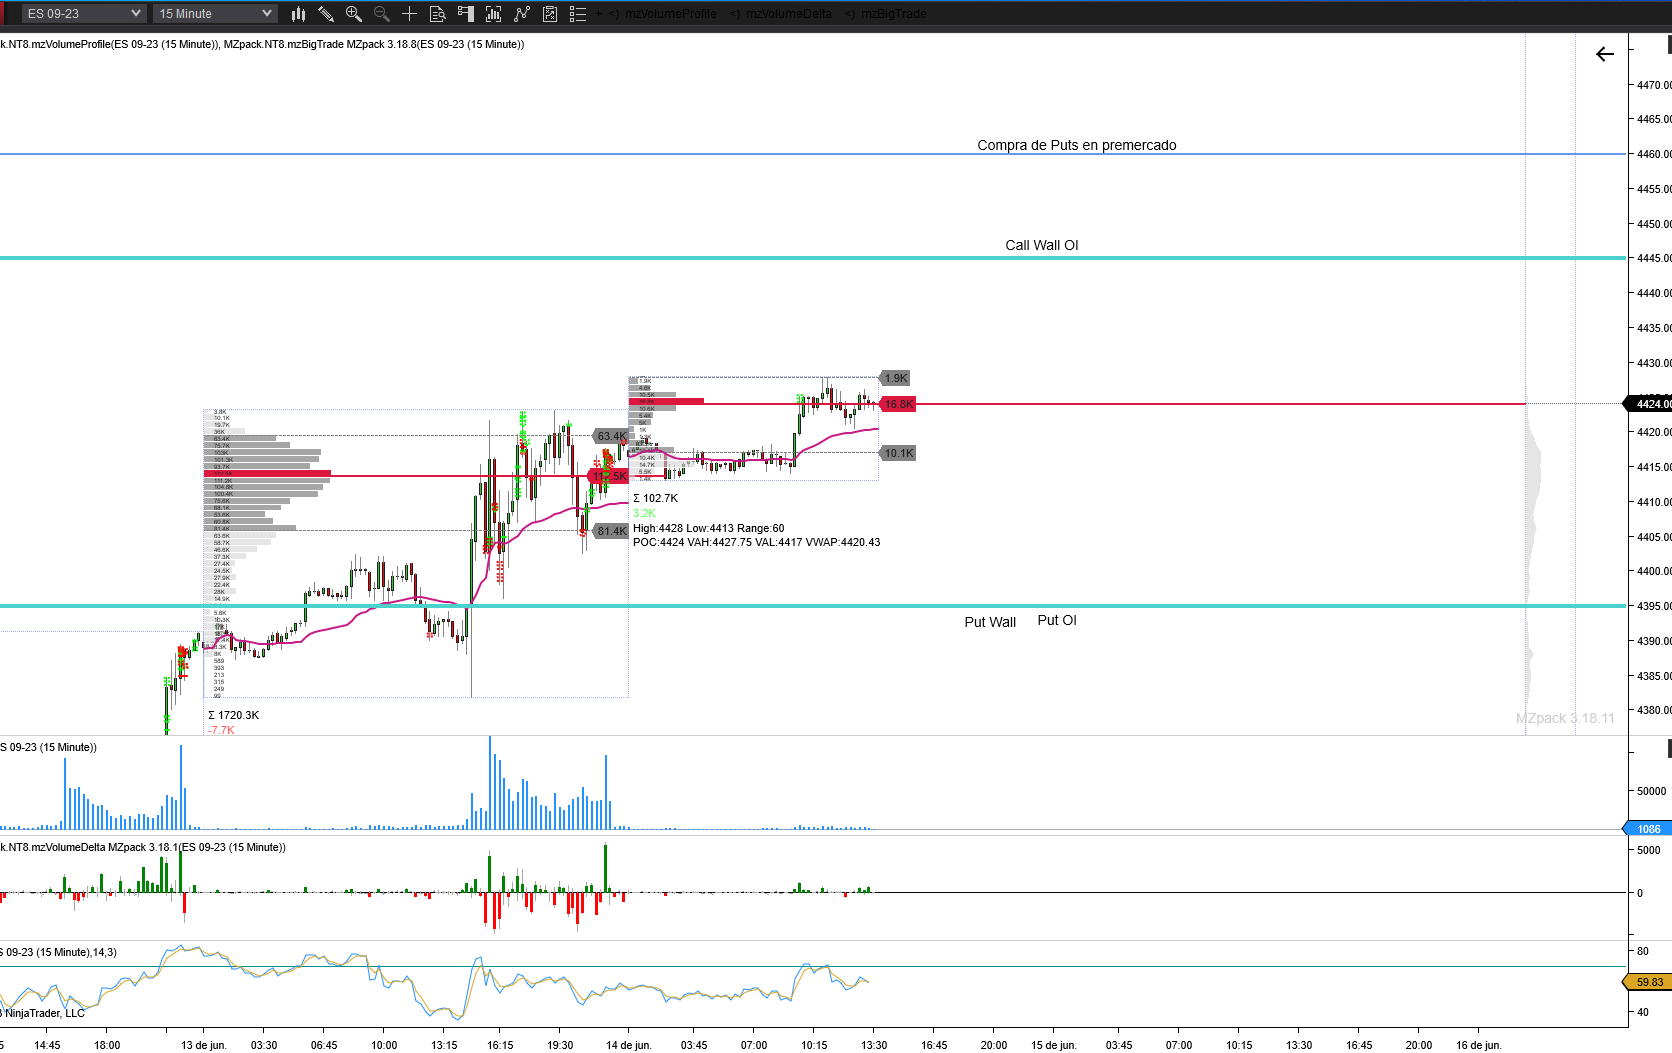
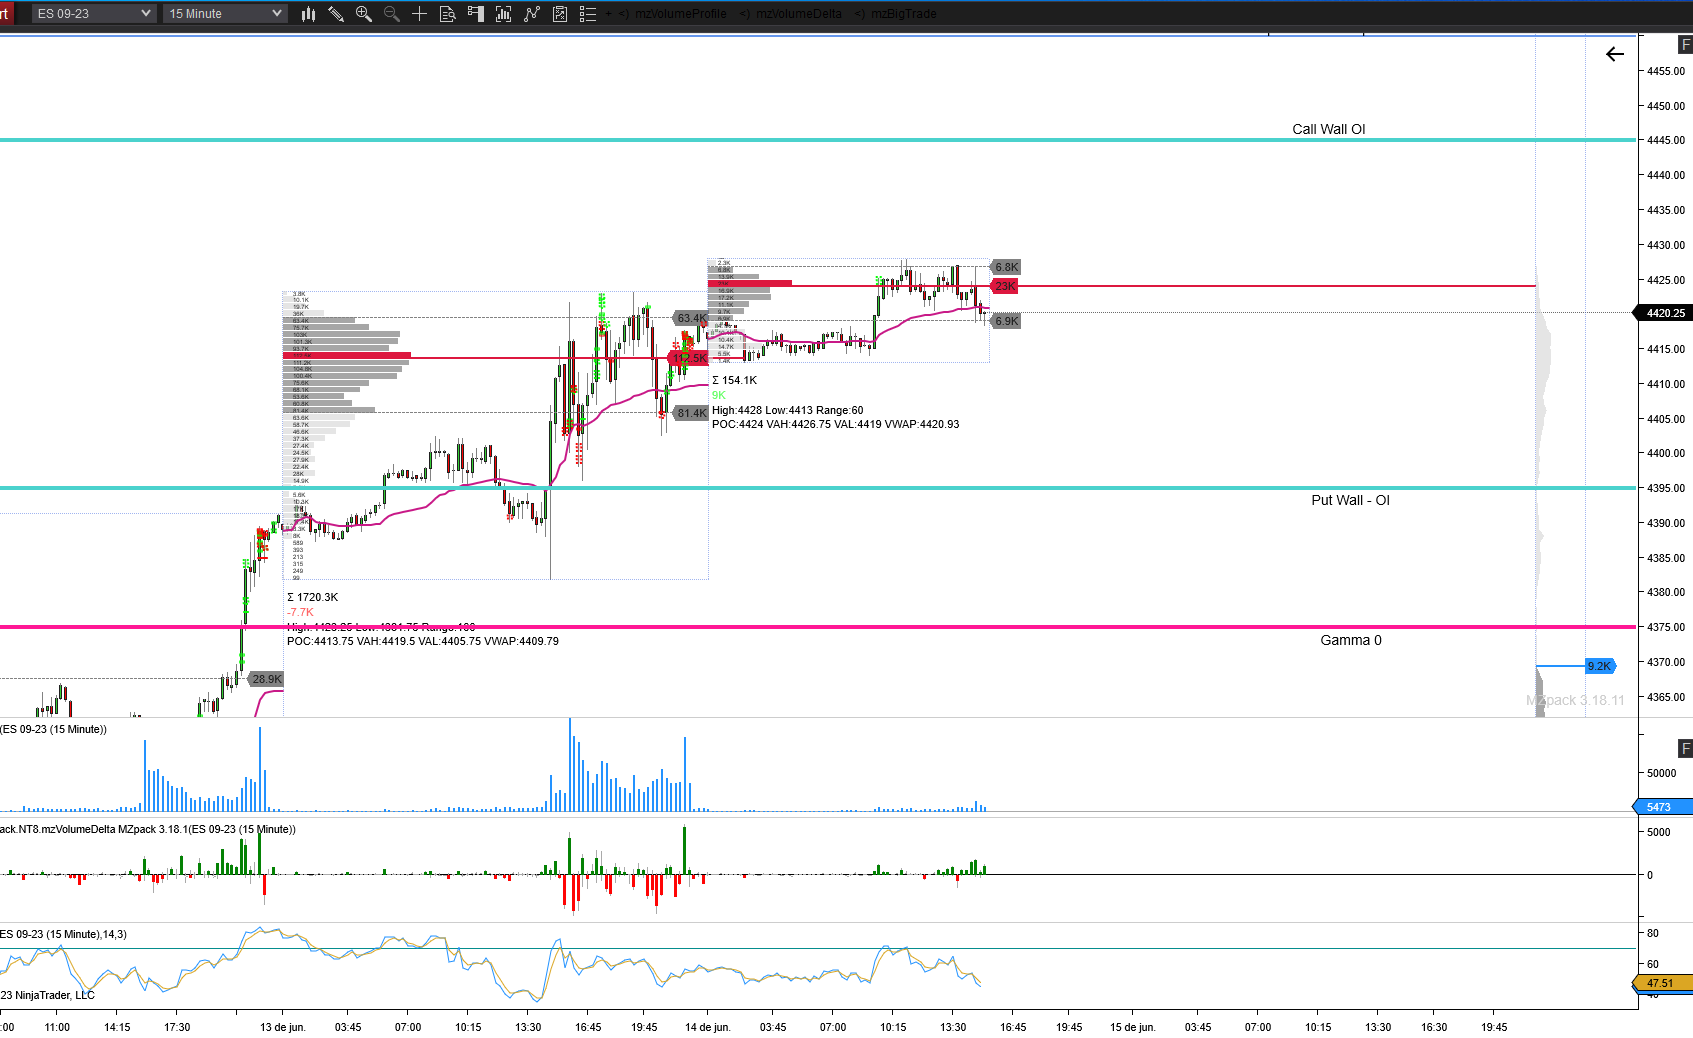
Update 14Junio

diff --git a/textos.py b/textos.py
@@ -1,6 +1,6 @@
 
 txt_comentario = "Ayer Martes 13 de Junio el mercado volvió a tener un desplazamiento alcista. Con respecto a los días precederos el movimiento fue mas lento situándose el cierre de sesión en la CallWall diaria y punto de resistencia que veníamos comentando como clave."
-txt_niveles = "**Para hoy 14 de Junio:** Niveles relevantes en premercado: **SPX: Call Wall 4400 y Put Wall 4350**. y para el **ES: Call Wall 4445 y Put Wall 4395**. **Nivel Gamma 0: SPX: 4350 y ES: 4395, Estamos en gamma positiva alta.**. "
+txt_niveles = "**Para hoy 14 de Junio:** Niveles relevantes en premercado: **SPX: Call Wall 4400 y Put Wall 4350**. y para el **ES: Call Wall 4445 y Put Wall 4395**. **Nivel Gamma 0: SPX: 4330 y ES: 4375, Estamos en gamma positiva alta.**. "
 txt_sentiment = "**Sentiment** Positivo "
 txt_esperamos = "**¿Qué esperamos para hoy?** Los días de FOMC son estadísticamente días muy arrangados hasta llegar a la hora de la conferencia. Por tanto únicamente trabajaremos algún nivel relevante si lo vemos claro. "
 txt_volatilidad = "Sigue apreciándose un poco más el vix1d, mientras el vix a 30 días sigue en mínimos."
